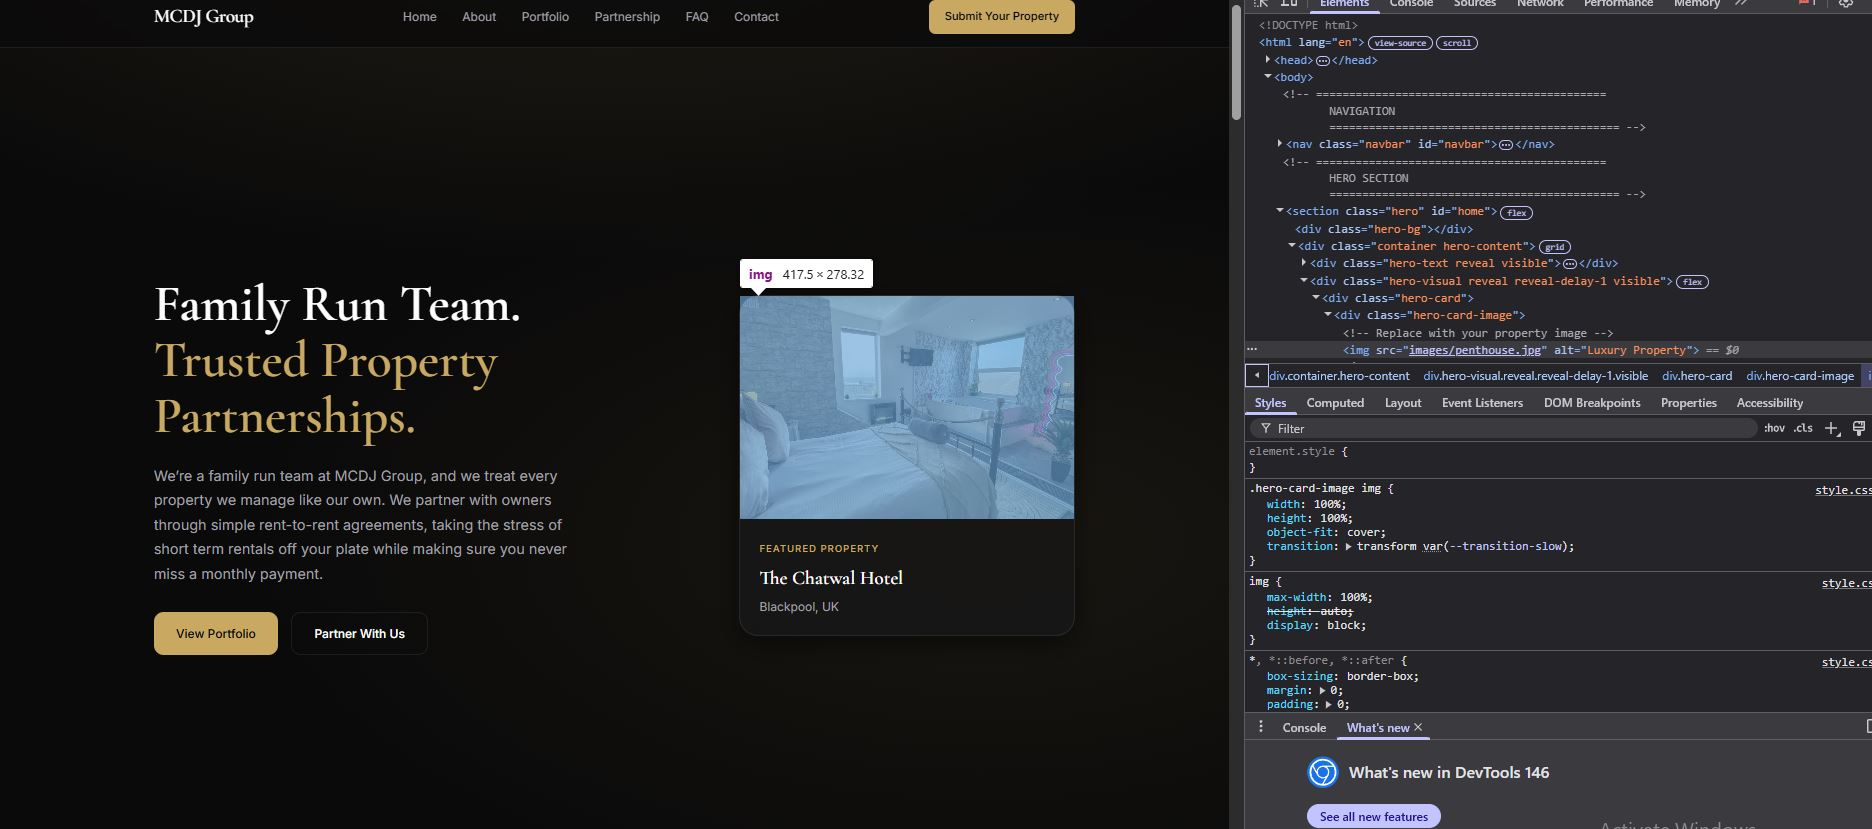
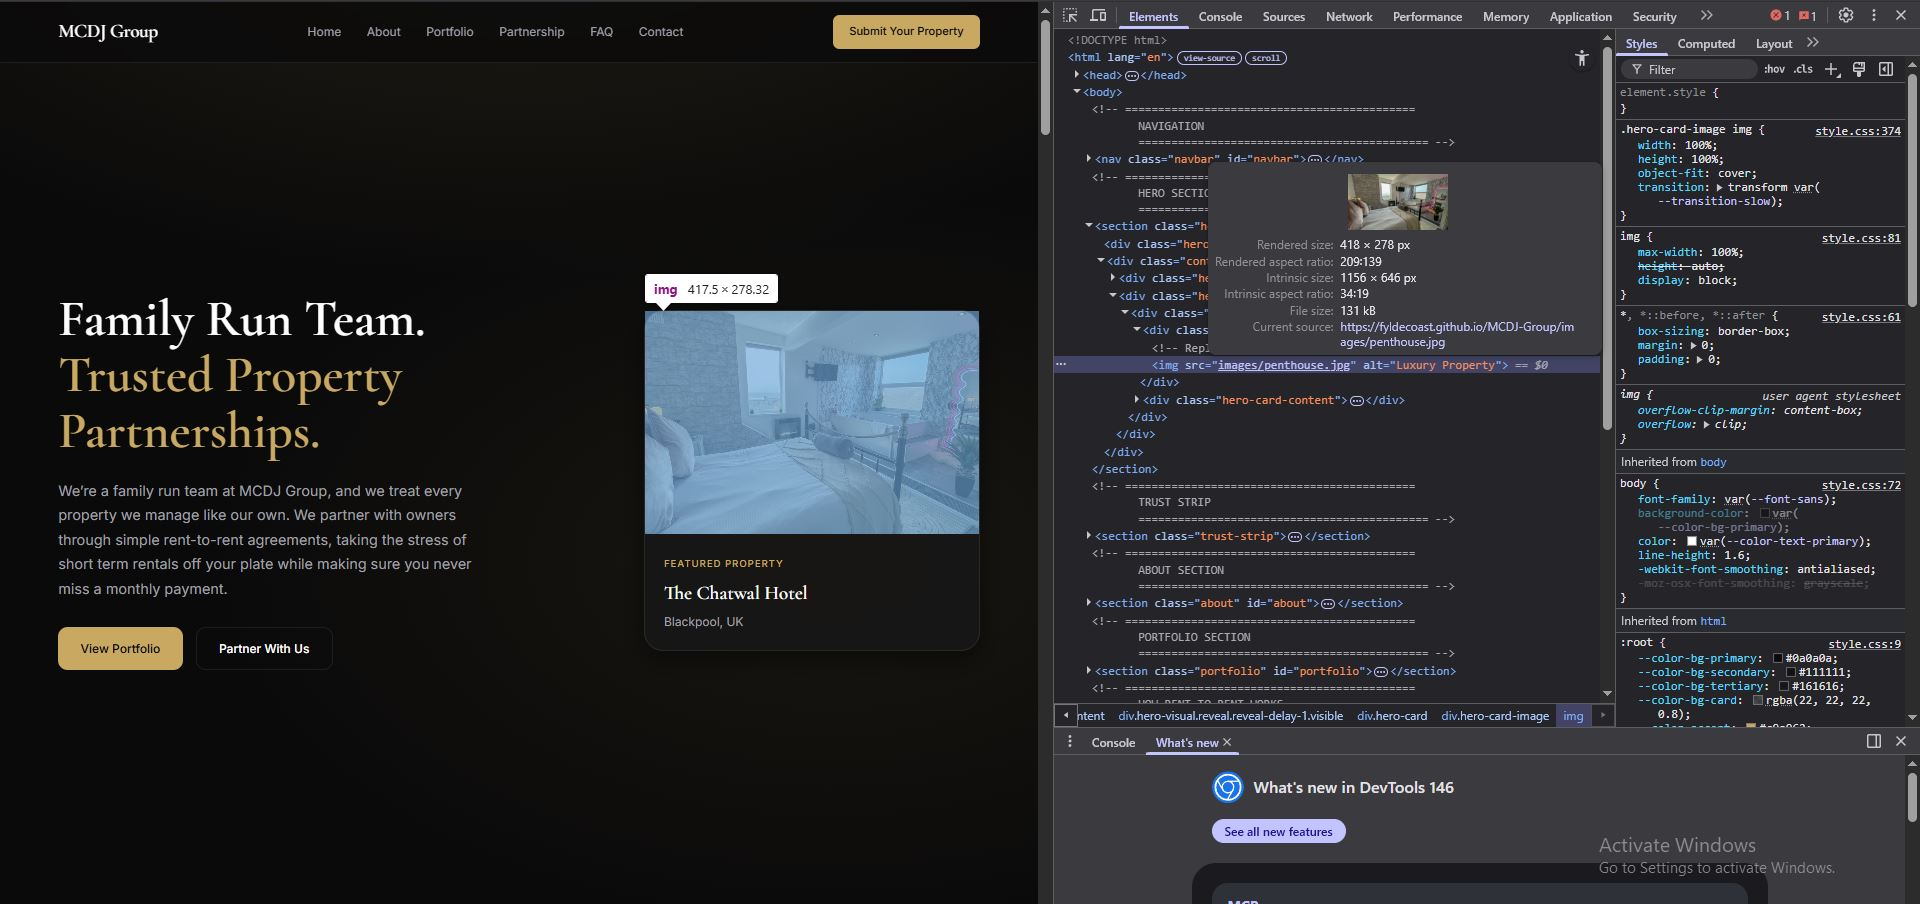
Forcing image width to 700px by overriding global max-width

Changed region(s): [[0.031, 0.0, 1.0, 1.0], [0.031, 0.0, 0.1549, 0.0603]]

diff --git a/index.html b/index.html
@@ -97,8 +97,8 @@
 
       <div class="hero-visual reveal reveal-delay-1 visible" style="flex: 0 0 700px !important; min-width: 700px !important; display: block !important;">
         <div class="hero-card" style="width: 700px !important; max-width: 700px !important; background: #1a1a1a; border-radius: 12px; overflow: hidden; box-shadow: 0 20px 40px rgba(0,0,0,0.3);">
-          <div class="hero-card-image" style="height: 550px !important; width: 100% !important;">
-            <img src="images/penthouse.jpg" alt="The Chatwal Hotel" style="width: 100% !important; height: 100% !important; object-fit: cover !important;">
+          <div class="hero-card-image" style="height: 550px !important; width: 700px !important; min-width: 700px !important;">
+            <img src="images/penthouse.jpg" alt="The Chatwal Hotel" style="width: 700px !important; min-width: 700px !important; height: 550px !important; object-fit: cover !important; display: block !important; max-width: none !important;">
           </div>
           <div class="hero-card-content" style="padding: 20px; color: white;">
             <span style="color: #c5a059; font-size: 0.8rem; text-transform: uppercase; letter-spacing: 1px;">Featured Property</span>
